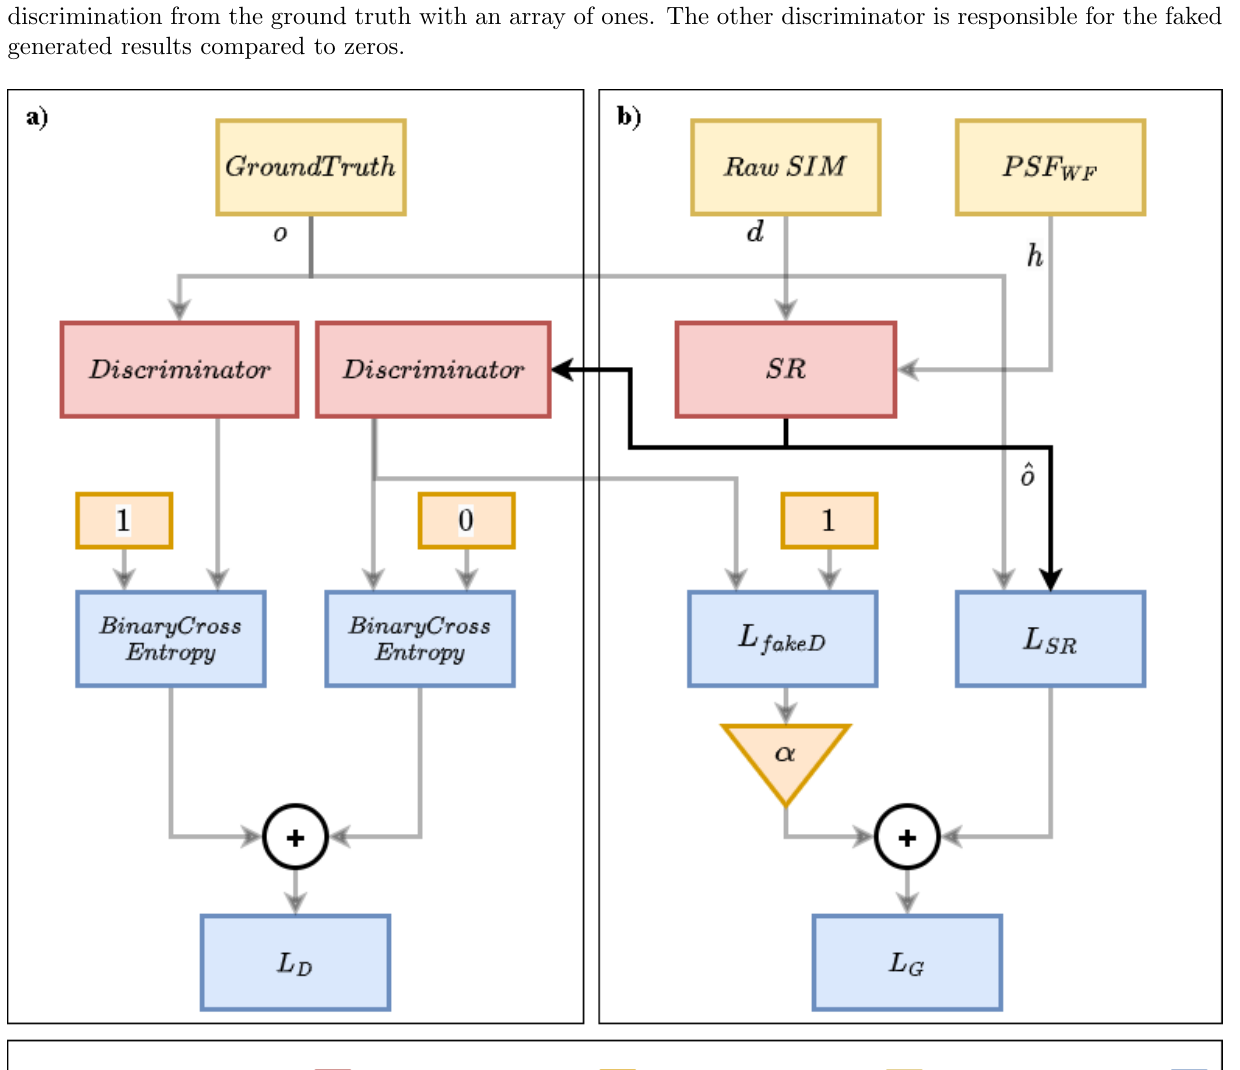
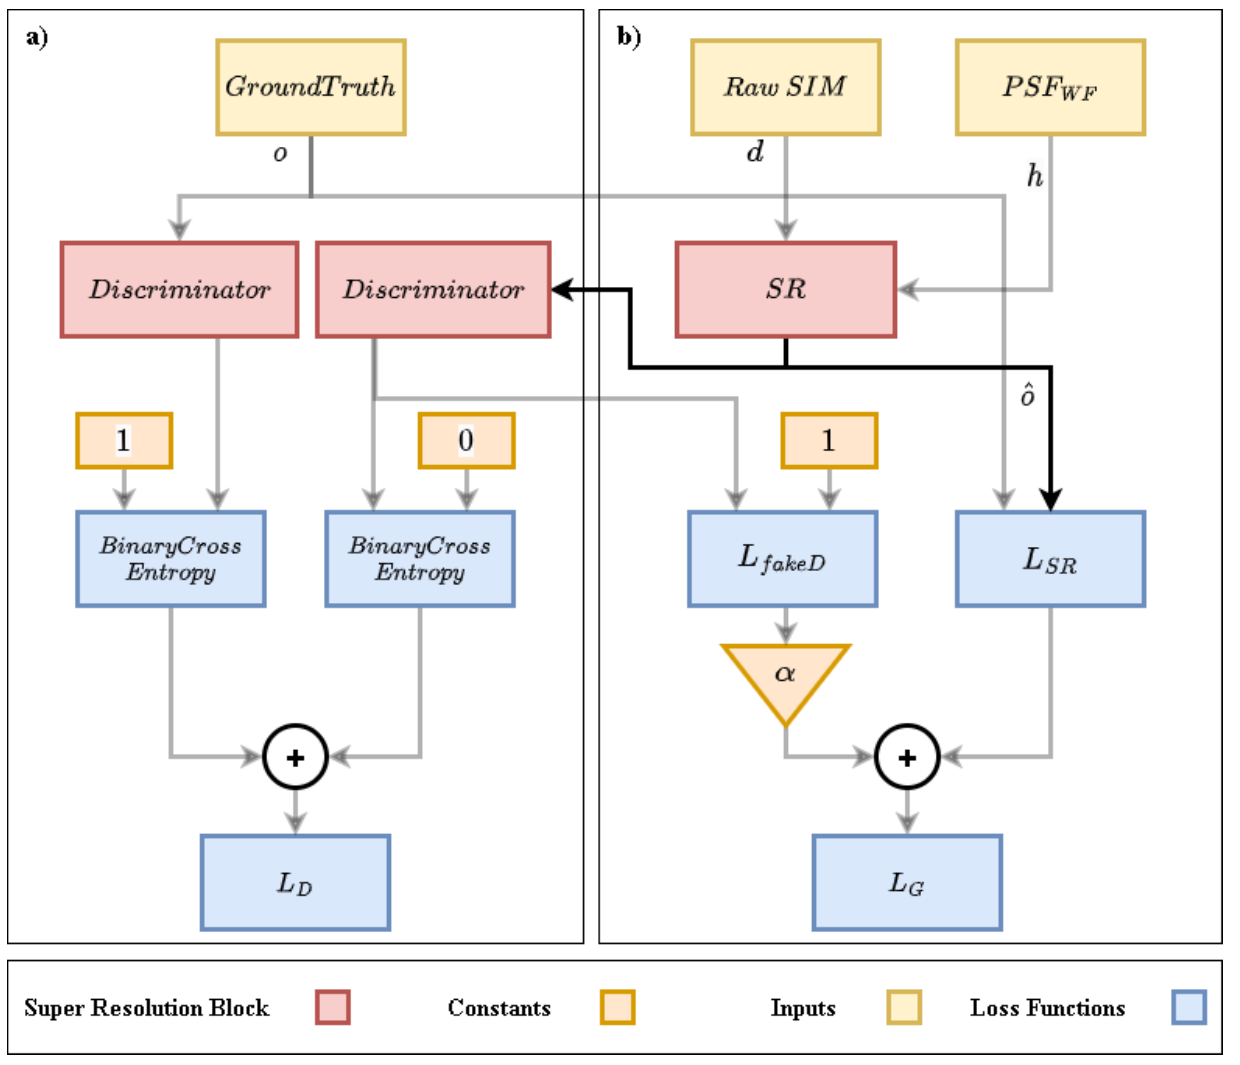
Content review

diff --git a/src/app/publications/publications.component.html b/src/app/publications/publications.component.html
@@ -125,7 +125,7 @@
                         <i>Autonomous Air and Ground Sensing Systems for Agricultural Optimization and Phenotyping
                             2025</i>,
                         SPIE,
-                        April 2025. [<a
+                        May 2025. [<a
                             href="https://mazharul-hossain.github.io/paper/13475-6_SPIE2025_SemanticSegmentation_HRViTUNet.pdf"
                             target="_blank">Slides</a>
                         | <a
@@ -156,7 +156,7 @@
                     <li>
                         Dajkhosh, S. P., <b>Hossain, M.</b>, & Preza, C., "USR: Unrolled Super-Resolution with Deep
                         Priors for
-                        Structured Illumination Microscopy", in <i>Imaging Systems and Applications</i>, pp. JTu4A-42,
+                        Structured Illumination Microscopy", in <i>Optica Imaging Congress</i>, paper JTu4A.42,
                         Optica
                         Publishing Group, August 2023. [<a href="https://doi.org/10.1364/3D.2023.JTu4A.42"
                             target="_blank">Publisher
@@ -173,7 +173,7 @@
                     </li>
 
                     <li>
-                        M. S. H. Younis, <b>M. Hossain</b>, A. L. Robinson, L. Wang, C. Preza, "<a
+                        M. Younis, <b>M. Hossain</b>, A. L. Robinson, L. Wang, C. Preza, "<a
                             href="https://www.cs.memphis.edu/~lanwang/paper/SPIE-conference23.pdf"
                             target="_blank">Hyperspectral
                             Unmixing-based Anomaly Detection</a>," in <i>Computational Imaging VII</i>, Vol. 12523.
@@ -183,7 +183,7 @@
                     </li>
 
                     <li>Dajkhosh, S. P., <b>M. Hossain</b>, & Preza, C., "Structured Illumination Microscope Image
-                        Reconstruction Using an Unrolled Physics-Informed Generative Adversarial Network (UPIGAN)," in <i>Computational
+                        Reconstruction Using Unrolled Physics-Informed Generative Adversarial Network (UPIGAN)," in <i>Computational
                             Imaging
                             VII</i>, Vol. 12523, pp. 63-74, SPIE, June, 2023. [<a
                             href="https://doi.org/10.1117/12.2663268" target="_blank">Publisher Link</a>]

diff --git a/src/app/home/selected-research/selected-research.component.ts b/src/app/home/selected-research/selected-research.component.ts
@@ -34,12 +34,12 @@ export class SelectedResearchComponent {
                 {
                     src: 'assets/images/work/gmoe-ad-graphical-abstract.png',
                     alt: 'GMoE-AD graphical abstract',
-                    caption: 'TODO:<ADD TRUE DETAILS> — GMoE-AD figure caption, source citation, and reuse permission.'
+                    caption: 'GMoE-AD combines neural experts and domain-adversarial learning for cross-domain detection. Graphical abstract: Hossain et al., Sensors, 2026, doi:10.3390/s26175661. © 2026 the authors; CC BY 4.0 (https://creativecommons.org/licenses/by/4.0/).'
                 },
                 {
                     src: 'assets/images/work/ge-ad-graphical-abstract.png',
                     alt: 'GE-AD graphical abstract',
-                    caption: 'TODO:<ADD TRUE DETAILS> — GE-AD figure caption, source citation, and reuse permission.'
+                    caption: 'GE-AD selects and combines complementary anomaly detectors using a greedy ensemble. Graphical abstract: Hossain et al., Journal of Imaging, 2024, doi:10.3390/jimaging10060131. © 2024 the authors; CC BY 4.0 (https://creativecommons.org/licenses/by/4.0/).'
                 }
             ],
             links: [
@@ -58,7 +58,7 @@ export class SelectedResearchComponent {
                 {
                     src: 'assets/images/work/upigan-gan-block-diagram.png',
                     alt: 'UPIGAN GAN block diagram',
-                    caption: 'TODO:<ADD TRUE DETAILS> — UPIGAN figure caption, source citation, and reuse permission.'
+                    caption: 'UPIGAN discriminator and generator architecture, including the microscope point spread function. Dajkhosh, Hossain, and Preza, Computational Imaging VII, SPIE, 2023, Figure 3, doi:10.1117/12.2663268.'
                 }
             ],
             links: [
@@ -75,7 +75,7 @@ export class SelectedResearchComponent {
                 {
                     src: 'assets/images/work/w-1.png',
                     alt: 'Map901 project banner',
-                    caption: 'TODO:<ADD TRUE DETAILS> — Map901 figure caption, source citation, and reuse permission.'
+                    caption: 'Map901 project website banner. Source: map901.memphis.edu.'
                 }
             ],
             links: [

diff --git a/src/app/home/research-journey/research-journey.component.html b/src/app/home/research-journey/research-journey.component.html
@@ -8,17 +8,29 @@
             </div>
         </div>
 
-        <ol class="journey-list row justify-content-center">
-            @for (entry of entries; track entry.organization) {
-                <li class="col-lg-5 col-md-6 col-sm-8">
-                    <article class="journey-entry single-service text-center mt-30">
-                        <p class="journey-stage">{{ entry.stage }}</p>
-                        <h3>{{ entry.organization }}</h3>
-                        <p class="journey-role">{{ entry.role }}</p>
-                        <p>{{ entry.description }}</p>
-                    </article>
-                </li>
-            }
-        </ol>
+        <div class="row justify-content-center">
+            <div class="col-lg-8">
+                <ol class="journey-list">
+                    @for (entry of entries; track entry.organization) {
+                        <li>
+                            <article class="journey-entry single-service mt-30">
+                                <p class="journey-stage">{{ entry.stage }}</p>
+                                <h3>{{ entry.organization }}</h3>
+                                <p class="journey-role">{{ entry.role }}</p>
+                                <p>{{ entry.description }}</p>
+                            </article>
+                        </li>
+                    }
+                </ol>
+            </div>
+            <aside class="col-lg-4" aria-labelledby="recognition-heading">
+                <div class="journey-entry single-service mt-30">
+                    <h3 id="recognition-heading">Recognition</h3>
+                    <p><strong>First Place, Long Talk · 2026</strong><br>21st Annual Computer Science Research Symposium, University of Memphis</p>
+                    <p><strong>First Place · 2021</strong><br>33rd Annual Student Research Forum, University of Memphis</p>
+                    <p><strong>Best Student Paper Nominee · 2021</strong><br>International Conference on Smart Cities and Green ICT Systems (SMARTGREENS)</p>
+                </div>
+            </aside>
+        </div>
     </div>
 </section>

diff --git a/src/app/home/research-journey/research-journey.component.ts b/src/app/home/research-journey/research-journey.component.ts
@@ -17,22 +17,22 @@ interface JourneyEntry {
 export class ResearchJourneyComponent {
     readonly entries: JourneyEntry[] = [
         {
-            stage: "Current — TODO:<ADD TRUE DETAILS> — start date",
+            stage: "June 2026 – Present",
             organization: "National Cancer Institute, National Institutes of Health",
             role: "Visiting Fellow",
-            description: "My work focuses on computational cryo-electron microscopy. TODO:<ADD TRUE DETAILS> — add the official unit, day-to-day responsibilities, and contributions that may be described publicly."
+            description: "I develop and validate computational methods and software for cryo-electron microscopy."
         },
         {
-            stage: "TODO:<ADD TRUE DETAILS> — employment dates",
+            stage: "August 2018 – May 2026",
             organization: "University of Memphis",
             role: "Graduate Assistant",
-            description: "TODO:<ADD TRUE DETAILS> — confirm the official appointment title and department, and describe research, teaching, or other responsibilities actually held."
+            description: "I researched hyperspectral imaging, LiDAR indoor mapping, microscopy reconstruction, and responsible AI."
         },
         {
             stage: "May 2022 – August 2022",
             organization: "Neuron23",
-            role: "Intern",
-            description: "TODO:<ADD TRUE DETAILS> — add the official internship title, team, responsibilities, and contributions."
+            role: "Data Scientist Intern",
+            description: "I developed compound-modeling software and interpretable molecular-property models."
         }
     ];
 }

diff --git a/src/app/about-me/about-me.component.html b/src/app/about-me/about-me.component.html
@@ -15,7 +15,7 @@
                     <p>I am Mazharul Hossain. My background brings together computer science, scientific imaging, and research software development. I earned my Ph.D. in Computer Science at the University of Memphis, where my dissertation investigated target detection in hyperspectral images for aided target recognition.</p>
                     <p>My master’s work at the University of Memphis focused on indoor mapping for public safety. It brought together LiDAR, 360° imagery, and object detection to describe hazards inside buildings. My subsequent doctoral work explored hyperspectral image analysis, alongside work on physics-guided microscopy reconstruction.</p>
                     <p>I have also studied explainable AI, with an emphasis on making model requirements, assumptions, and evaluation understandable to the people who use and assess learning systems. My technical background includes machine-learning frameworks, scientific computing on HPC systems, and software services; the skills listed here summarize those tools and methods.</p>
-                    <p>TODO:&lt;ADD TRUE DETAILS&gt; — add the personal background, interests outside work, or experiences you would like visitors to know about.</p>
+                    <p>Outside of research, I enjoy hiking, exploring nature, and cycling through cities. Biking lets me experience everyday life at a closer pace and notice things I might miss when traveling by car.</p>
                 </div>
             </div>
             <div class="col-lg-5">

diff --git a/src/app/home/research-journey/research-journey.component.spec.ts b/src/app/home/research-journey/research-journey.component.spec.ts
@@ -14,18 +14,20 @@ describe("ResearchJourneyComponent", () => {
         fixture.detectChanges();
     });
 
-    it("renders employment roles with placeholders for unconfirmed details", () => {
+    it("renders employment roles and recognition", () => {
         const element: HTMLElement = fixture.nativeElement;
 
-        expect(element.querySelectorAll(".journey-entry").length).toBe(3);
-        expect(element.querySelectorAll(".journey-entry.single-service").length).toBe(3);
+        expect(element.querySelectorAll("ol .journey-entry").length).toBe(3);
         expect(element.textContent).toContain("National Cancer Institute");
         expect(element.textContent).toContain("University of Memphis");
         expect(element.textContent).toContain("Visiting Fellow");
         expect(element.textContent).toContain("Graduate Assistant");
         expect(element.textContent).toContain("Neuron23");
         expect(element.textContent).toContain("May 2022 – August 2022");
-        expect(element.textContent).toContain("TODO:<ADD TRUE DETAILS>");
+        expect(element.textContent).toContain("Data Scientist Intern");
+        expect(element.textContent).toContain("LiDAR indoor mapping");
+        expect(element.textContent).toContain("Recognition");
+        expect(element.textContent).not.toContain("TODO:<ADD TRUE DETAILS>");
         expect(element.textContent).not.toContain("Ph.D. in Computer Science");
     });
 });

diff --git a/src/app/about-me/about-me.component.spec.ts b/src/app/about-me/about-me.component.spec.ts
@@ -29,7 +29,7 @@ describe('AboutMeComponent', () => {
     expect(element.querySelector('#skills-heading')?.textContent).toContain('Skills');
     expect(element.textContent).toContain('Machine Learning Tools');
     expect(element.textContent).toContain('Ph.D. in Computer Science');
-    expect(element.textContent).toContain('TODO:<ADD TRUE DETAILS>');
+    expect(element.textContent).toContain('hiking, exploring nature, and cycling');
     expect(element.textContent).not.toContain('Interested for Internship and Fulltime');
   });
 });

diff --git a/docs/PORTFOLIO_CV_CONTENT_REVIEW_PLAN.md b/docs/PORTFOLIO_CV_CONTENT_REVIEW_PLAN.md
@@ -8,7 +8,7 @@ You maintain Mazharul Hossain's latest CV and resume information. Review his por
 
 Use the latest local portfolio content, including uncommitted edits. The deployed website may be older. 
 
-Deliver the result in `docs/PORTFOLIO_CV_CONTENT_REVIEW.md`. If you cannot access this repository, return the same document as Markdown for the website agent to save. Do not claim to have inspected files or sources you cannot access. Do not commit, push, or publish anything.
+The detailed review is maintained in the private faculty-application vault as `PORTFOLIO_CV_CONTENT_REVIEW.md` at the vault root. Keep the review in the vault, not in this public repository. Do not claim to have inspected files or sources you cannot access. Do not commit, push, or publish anything.
 
 ## Editorial direction already approved by Mazhar
 
